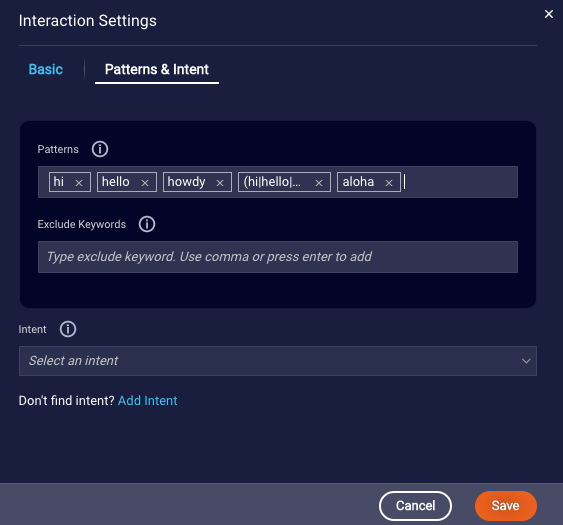
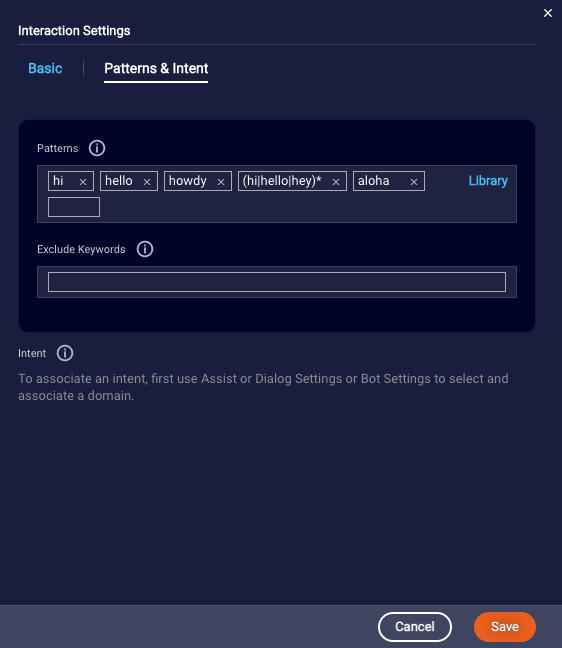
Update to reflect new UI

diff --git a/pages/documents/Getting Started/Quick-start/quick-start-bots.md b/pages/documents/Getting Started/Quick-start/quick-start-bots.md
@@ -179,7 +179,7 @@ Next, you use Conversation Builder to connect your bot to the bot agent you just
 
 ## Step 5: Expand the capabilities of your bot
 
-* **[Extended Getting Started tutorial](https://developers.liveperson.com/conversation-builder-tutorials-guides-getting-started.html)**: Expand the capabilities of your bot using intents and integrations. Learn how to transfer a bot conversation to a live agent.
+* **[Extended Getting Started tutorial](https://developers.liveperson.com/tutorials-guides-getting-started-with-bot-building-overview.html)**: Expand the capabilities of your bot using intents and integrations. Learn how to transfer a bot conversation to a live agent.
 
 * **[Bot templates](https://developers.liveperson.com/conversation-builder-bot-templates-overview.html)**: Reference bots for common use cases, such as Routing, FAQ, Lead Generation and Order Status.
 
@@ -187,7 +187,7 @@ Next, you use Conversation Builder to connect your bot to the bot agent you just
 
 * **[Bot Analytics](https://developers.liveperson.com/bot-analytics-overview.html)**: Visualize and tune the performance of your bot with usage and intent matching metrics.
 
-* **[Video tutorials](https://knowledge.liveperson.com/ai-bots-automation-conversation-builder-getting-started-tutorials.html)**: Learn about basic bot building concepts in a set of four videos.
+* **[Video tutorials](https://knowledge.liveperson.com/ai-bots-automation-conversation-builder-getting-started-tutorials.html)**: Learn about basic bot building concepts in a series of videos.
 
 ## Additional quick start guides
 
